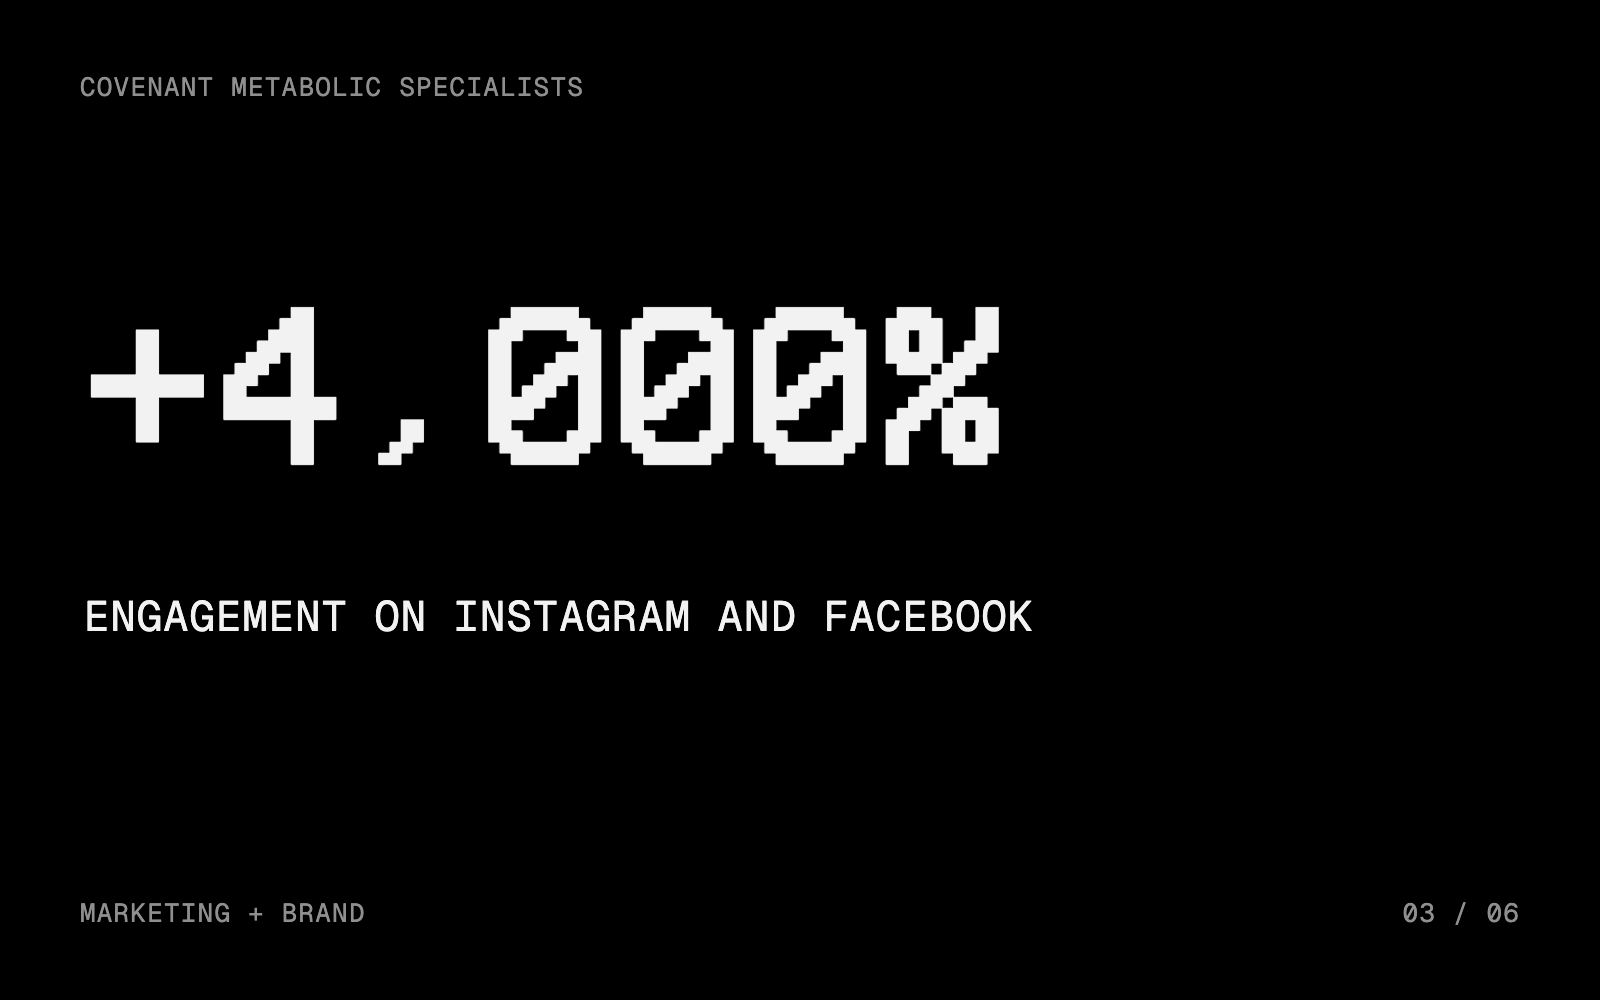
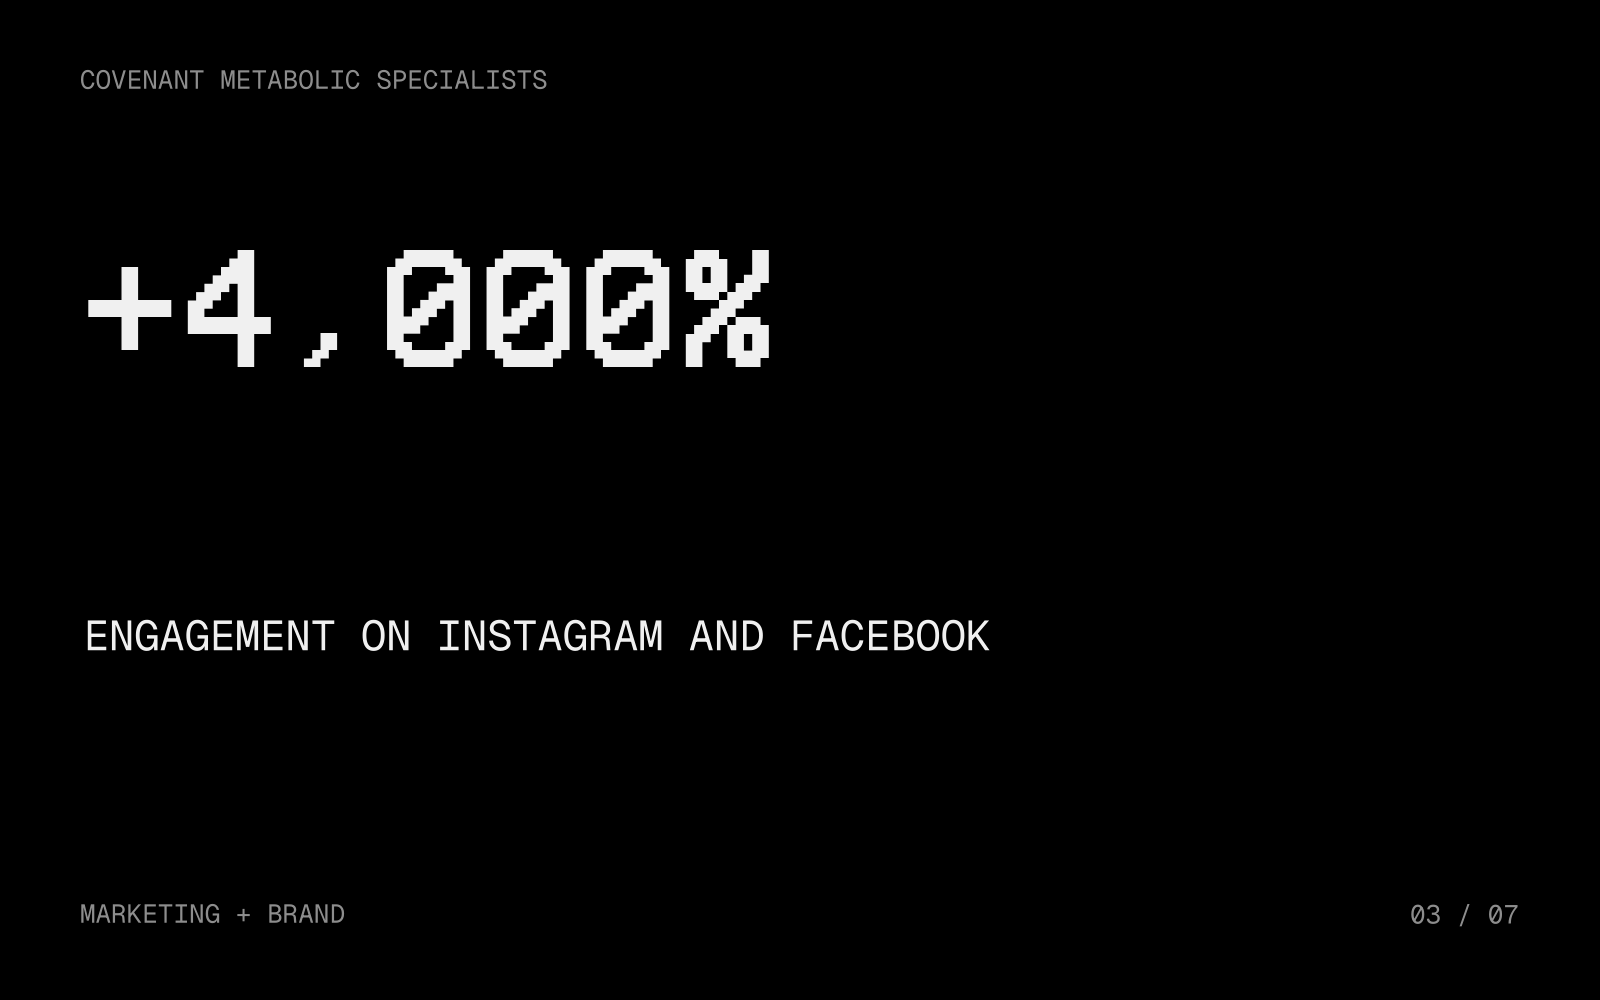
Edit Covenant case study; add Chimney Cricket, Sovereign Edge and Tropic Colour case studies

diff --git a/projects.js b/projects.js
@@ -287,31 +287,35 @@ window.TAGS = {
   'lunar-studio': [['Branding'], []],
 };
 
-// Case study: Covenant Metabolic Specialists (facts from MASTER-FACTS.md; no tenure length for the promotion by rule)
+// Case study: Covenant Metabolic Specialists (facts from MASTER-FACTS.md and Derek; no tenure length for the promotion by rule)
 PROJECTS.push({
   slug: 'covenant-metabolic',
+  extra: { title: 'From the feed', prefix: 'frames', n: 6, phones: true },
   title: 'Covenant Metabolic Specialists',
   url: null,
   kind: 'Healthcare · Marketing + brand',
   group: 'marketing',
   role: ['Video & social media manager', 'Head of marketing'],
-  sections: 6,
+  sections: 7,
   meta: [['Client', 'Covenant Metabolic Specialists'], ['Where', 'Sarasota, FL · three locations'], ['When', 'Apr 2025 – Jul 2026']],
-  summary: 'Built the content channel from zero, then ran all of marketing for a metabolic and liver health group.',
+  summary: 'Built the content channel from zero, then ran all of marketing, paid and reviews for a metabolic and liver health group.',
   writeup: [
     'Covenant Metabolic Specialists is a metabolic and liver health group in Sarasota with three locations. I joined in April 2025 as the video and social media manager. They hired me to build the content channel from zero. I was promoted to head of marketing and stayed until July 2026.',
-    'I built the content calendar and a brief-to-publish workflow in Monday.com. The team shipped about 30 assets a month across Instagram, TikTok, YouTube, Facebook and LinkedIn. Organic search went from nothing to more than a million impressions in eight months.',
+    'I built the content calendar and a brief-to-publish workflow in Monday.com. The team shipped about 30 assets a month across Instagram, TikTok, YouTube, Facebook and LinkedIn. Search impressions passed one million in three months, with the site ranking against competing clinics.',
+    'Paid ran on Google Ads, LinkedIn ads and Facebook ads, and I managed all three. I was also the agency contact for SEO content and blog work.',
+    'I took on Google reviews as an operations problem as much as a marketing one. I looked at how each of the three locations collected reviews and how patients were encouraged to leave one, both in the office and in our marketing. Then I changed the Google Business Profile experience and the in-person experience together. Reviews doubled across all three locations.',
     'Everything ran under medical rules. Every asset cleared HIPAA, medical claims and FTC review, and I was the last gate before anything went live.',
-    'I owned the monthly marketing budget, which ran over $50K, and the forecast the executive team planned around. Reporting went out weekly from Looker Studio on first-party conversion data. FINN Partners was our PR agency. I ran Google Ads and was the agency contact for SEO content and blog work.',
+    'I owned the monthly marketing budget, which ran over $50K, and the forecast the executive team planned around. Reporting went out weekly from Looker Studio on first-party conversion data. FINN Partners was our PR agency.',
   ],
   did: [
     'Built the content channel from zero as video and social media manager',
     'Promoted to head of marketing and led 13 employees',
     'Ran a brief-to-publish workflow in Monday.com: about 30 assets a month across five channels',
+    'Grew search impressions past 1M in three months, ranking against competing clinics',
+    'Ran Google Ads, LinkedIn ads and Facebook ads',
+    'Looked at how each location collected and encouraged reviews, then fixed the Google Business Profile and in-person experience: reviews doubled across all three locations',
     'Was the last gate: every asset cleared HIPAA, medical claims and FTC review',
     'Owned the $50K+ monthly budget and the forecast leadership planned around',
-    'Managed Google Ads and the SEO and blog work, with FINN Partners on PR',
-    'Improved the Google Business Profile and the in-person experience: reviews doubled across all three locations',
     'Reported weekly in Looker Studio on first-party conversion data',
   ],
 });
@@ -376,4 +380,90 @@ PROJECTS.push({
     src: 'assets/logo/creativepass.png', bg: '#ffffff',
     blurb: 'I designed the CreativePass icon. A white "C" on black with one blue dot, so it reads as a tool and stays calm next to the colorful work people make inside it.',
   },
+});
+
+// Case study: Chimney Cricket (facts from MASTER-FACTS.md; no job title by rule: two titles are live)
+PROJECTS.push({
+  slug: 'chimney-cricket-ecommerce',
+  extra: { title: 'The storefront', files: ['chimney-cricket/section-01.png', 'chimney-cricket/section-02.png', 'chimney-cricket/section-04.png', 'chimney-cricket/section-06.png'] },
+  title: 'Chimney Cricket',
+  url: null,
+  kind: 'E-commerce · Marketing',
+  group: 'marketing',
+  role: ['E-commerce', 'Digital marketing'],
+  sections: 6,
+  meta: [['Company', 'Chimney Cricket'], ['Where', 'Sarasota, FL'], ['When', 'Mar 2024 – Apr 2025'], ['The site', 'See the site design', 'project.html?p=chimney-cricket']],
+  summary: 'Ran e-commerce and digital marketing across the site, Amazon and Walmart.com for a 20,000-product chimney catalog.',
+  writeup: [
+    'Chimney Cricket sells chimney and fireplace parts online from Sarasota. The catalog runs past 20,000 products, and most of the year\'s revenue lands in a few cold months. I ran e-commerce and digital marketing there from March 2024 to April 2025.',
+    'I owned the site and the marketplaces, Amazon and Walmart.com. Listings, order flow and fulfillment all ran through me. I moved fulfillment from two days to same day on roughly 200 to 300 orders a month, and I cut fraudulent orders by 80%.',
+    'I rebuilt the site and the structure behind it: category architecture, product content and internal links, so partner brands showed up in search and paid. Online revenue grew 35% behind the rebuild.',
+    'Paid ran on Google, Meta and TikTok, plus Amazon Ads and Walmart Connect, with lifecycle email alongside. I produced the product, lifestyle and educational content that fed all of it, and I was the agency contact for SEO content and blog work.',
+  ],
+  did: [
+    'Owned the site, Amazon and Walmart.com',
+    'Managed listings, order flow and fulfillment across every channel',
+    'Moved fulfillment from two days to same day',
+    'Cut fraudulent orders by 80%',
+    'Rebuilt the site: online revenue up 35%',
+    'Rebuilt category architecture, product content and internal linking for search and paid',
+    'Ran Google Ads, Meta, TikTok, Amazon Ads, Walmart Connect and lifecycle email',
+    'Produced the product, lifestyle and educational content behind every channel',
+  ],
+});
+
+// Case study: Sovereign Edge Solutions (facts from MASTER-FACTS.md; the $2.5M pipeline figure is unconfirmed so it is not used)
+PROJECTS.push({
+  slug: 'sovereign-edge',
+  title: 'Sovereign Edge Solutions',
+  url: null,
+  kind: 'Fintech SaaS · Product marketing',
+  group: 'marketing',
+  role: ['Product marketing', 'Investor onboarding'],
+  sections: 5,
+  meta: [['Company', 'Sovereign Edge Solutions'], ['Where', 'Remote'], ['When', 'Aug 2018 – Apr 2022']],
+  summary: 'Product marketing for a B2B trading software company: the investor pitch media, the manuals and the onboarding behind a $2M+ raise.',
+  writeup: [
+    'Sovereign Edge Solutions licensed automated trading algorithms as B2B software. The sales cycle was long and consultative, so most of the work was explaining. I joined in August 2018 as a product management intern and was promoted to product marketing manager. I stayed until April 2022.',
+    'I made the media for the investor pitch and the go-to-market narrative behind a raise that closed at more than $2 million.',
+    'Investors had to understand the product before they trusted it. I built the tutorials and manuals they used. Then I onboarded each new investor myself: I created their trading accounts and fixed whatever broke.',
+    'Behind that, I tested trading strategies with the developers and leadership through manual trading, forward tests and backtests. I met regularly with the dev team, the trading team and leadership to line up pricing and licensing terms. I also managed the trading desk vendors and was the main contact for customer support.',
+  ],
+  did: [
+    'Promoted from product management intern to product marketing manager',
+    'Made the investor pitch media and the go-to-market narrative behind a $2M+ raise',
+    'Built the tutorials and manuals investors used to learn the product',
+    'Onboarded new investors: created trading accounts and fixed problems',
+    'Tested trading strategies with developers and leadership: manual trading, forward tests and backtests',
+    'Aligned the dev team, trading team and leadership on pricing and licensing terms',
+    'Managed trading desk vendor relationships',
+    'Was the main contact for customer support',
+  ],
+});
+
+// Case study: Tropic Colour x moonbear.shop licensing deal (facts from MASTER-FACTS.md and Derek; no deal terms are stated)
+PROJECTS.push({
+  slug: 'tropic-colour-licensing',
+  extra: { title: 'From the Tropic Colour library', prefix: 'frames', n: 4 },
+  title: 'Tropic Colour × moonbear.shop',
+  url: null,
+  kind: 'Licensing · Partnership',
+  group: 'marketing',
+  role: ['Partnerships', 'Negotiation', 'Marketing'],
+  sections: 4,
+  meta: [['Partner', 'Tropic Colour'], ['Store', 'moonbear.shop', 'https://moonbear.shop'], ['When', 'Jun 2021 – Mar 2023']],
+  summary: 'Sourced, negotiated and ran a two-year licensing deal between Tropic Colour and moonbear.shop.',
+  writeup: [
+    'From June 2021 to March 2023, moonbear.shop ran a licensing partnership with Tropic Colour. I sourced the deal, negotiated it and ran it for its full term, about two years.',
+    'A licensing deal only works if both sides keep shipping. I ran a joint calendar so launches, promotions and content from both brands landed on the same dates. I reported the revenue split so each side could see what the partnership earned.',
+    'Counting the customers who came through the partnership, Moonbear\'s customer count passed 100,000.',
+    'I did this while running the rest of Moonbear: the products, the marketing and the store.',
+  ],
+  did: [
+    'Sourced the partner',
+    'Negotiated the licensing terms',
+    'Ran the joint launch and promotion calendar for the length of the deal',
+    'Reported the revenue split to both sides',
+    'Grew Moonbear\'s customer base past 100K, counting the partnership',
+  ],
 });

diff --git a/script.js b/script.js
@@ -53,7 +53,7 @@ if ($('#project')) {
     </div>
     <div class="hero-shot"><img src="${shots(p)}/thumb.png" alt="${esc(p.title)} homepage"></div>
     <dl class="facts">
-      ${p.meta ? p.meta.map(([k, v, h]) => `<div><dt>${esc(k)}</dt><dd>${h ? `<a href="${h}" target="_blank" rel="noopener">${esc(v)}</a>` : esc(v)}</dd></div>`).join('') : `<div><dt>Live site</dt><dd>${p.url ? `<a href="${p.url}" target="_blank" rel="noopener">${esc(p.url.replace(/^https?:\/\/(www\.)?/, '').replace(/\/$/, ''))} ↗</a>` : 'No longer live'}</dd></div>
+      ${p.meta ? p.meta.map(([k, v, h]) => `<div><dt>${esc(k)}</dt><dd>${h ? `<a href="${h}"${/^https?:/.test(h) ? ' target="_blank" rel="noopener"' : ''}>${esc(v)}</a>` : esc(v)}</dd></div>`).join('') : `<div><dt>Live site</dt><dd>${p.url ? `<a href="${p.url}" target="_blank" rel="noopener">${esc(p.url.replace(/^https?:\/\/(www\.)?/, '').replace(/\/$/, ''))} ↗</a>` : 'No longer live'}</dd></div>
       <div><dt>${p.fullPage === false ? 'Screens' : 'Full page'}</dt><dd>${p.fullPage === false ? `${p.sections} screenshots` : `<a href="${shots(p)}/full-page.png" target="_blank">Open full-page PNG ↗</a>`}</dd></div>`}
     </dl>
     <section class="writeup">
@@ -61,6 +61,7 @@ if ($('#project')) {
       <div><h2>What I did</h2><ul class="list">${p.did.map((d) => `<li>${esc(d)}</li>`).join('')}</ul></div>
     </section>
     <section class="gallery${p.phones ? ' phones' : ''}">${gallery}</section>
+    ${p.extra ? `<section class="gallery extra${p.extra.phones ? ' phones' : ''}"><h2 class="gal-title">${esc(p.extra.title)}</h2>${(p.extra.files || Array.from({ length: p.extra.n }, (_, k) => `${p.slug}/${p.extra.prefix}-${String(k + 1).padStart(2, '0')}.jpg`)).map((f, k, a) => `<figure><img src="assets/screenshots/${f}" alt="${esc(p.title)} ${esc(p.extra.title)} ${k + 1}" loading="lazy"><figcaption>${String(k + 1).padStart(2, '0')} / ${String(a.length).padStart(2, '0')}</figcaption></figure>`).join('')}</section>` : ''}
     ${p.logo ? `<section class="logo-sec"><div class="logo-box" style="background:${p.logo.bg}"><img src="${p.logo.src}" alt="${esc(p.title)} logo"></div><div><h2>The logo</h2><p>${esc(p.logo.blurb)}</p><a class="back" href="${p.logo.src}" download>Download logo ↓</a></div></section>` : ''}
     ${p.brand ? `<section class="brand"><h2>Brand imagery</h2><div class="brand-grid">${p.brand.map((b) => `<figure${b.wide ? ' class="wide"' : ''}><img src="${b.src}" alt="${esc(b.alt)}" loading="lazy"></figure>`).join('')}</div></section>` : ''}
     ${p.marks ? `<section class="marks"><h2>Product marks</h2><div class="marks-grid">${p.marks.map((m) => `<figure><img src="${m.src}" alt="${esc(m.label)}"><figcaption>${esc(m.label)}</figcaption></figure>`).join('')}</div><p class="note">Created by the team I led.</p></section>` : ''}

diff --git a/styles.css b/styles.css
@@ -198,3 +198,4 @@ footer { padding: 28px 0; font: 400 12px var(--mono); color: var(--muted); }
 @media (max-width: 720px) { .brand-grid { gap: 10px; } }
 .gallery.phones { grid-template-columns: repeat(3, 1fr); gap: 28px 24px; }
 @media (max-width: 720px) { .gallery.phones { grid-template-columns: repeat(2, 1fr); gap: 20px 10px; } }
+.gal-title { grid-column: 1 / -1; font: 400 14px var(--mono); text-transform: uppercase; margin: 24px 0 -8px; padding-top: 32px; border-top: 1px solid var(--line); }
